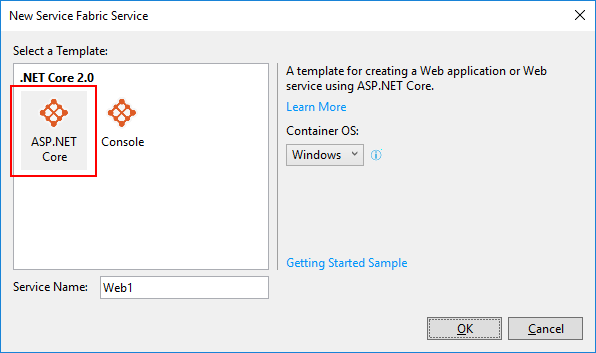
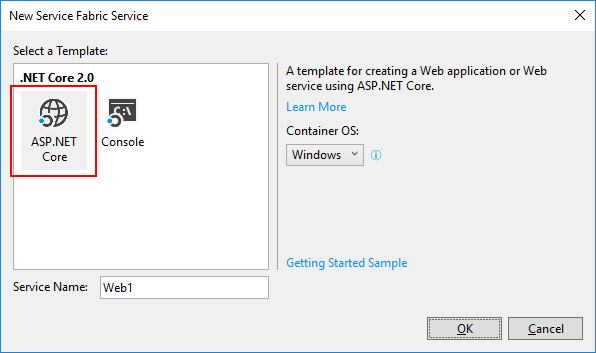
Update preview docs

Changed region(s): [[0.0604, 0.2805, 0.1208, 0.3739], [0.1812, 0.2805, 0.2416, 0.3739]]

diff --git a/docs/conceptual-docs/service-fabric-mesh-tutorial-create-dotnetcore.md b/docs/conceptual-docs/service-fabric-mesh-tutorial-create-dotnetcore.md
@@ -1,0 +1,136 @@
+---
+title: Test and deploy a .NET Core app for Azure Service Fabric Mesh
+description: In this tutorial you create an ASP.NET Core website and deploy it to the local Service Fabric test cluster. After that, you will deploy to Azure.
+services: service-fabric-mesh
+documentationcenter: .net
+author: TylerMSFT
+manager: timlt
+editor: ''
+
+ms.assetid: 
+ms.service: service-fabric-mesh
+ms.devlang: dotNet
+ms.topic: tutorial
+ms.tgt_pltfrm: NA
+ms.workload: NA
+ms.date: 05/15/2018
+ms.author: twhitney
+ms.custom: mvc, devcenter
+#Customer intent: As a developer, I want to use visual studio to locally run a .net core application on Service Fabric Mesh so that I can see it run and then I will deploy it to Azure.
+---
+
+# Tutorial: Create an ASP.NET Core website for Service Fabric Mesh
+
+In this tutorial you will create a new Service Fabric Mesh project, add an ASP.NET Core website to it, and run it locally in the Service Fabric cluster. After that, you will deploy the project to Azure.
+
+In this tutorial you learn how to:
+> [!div class="checklist"]
+> * Create a new Service Fabric Mesh project.
+> * Debug the service locally.
+> * Publish the service to Azure.
+
+If you don’t have an Azure subscription, [create a free account](https://azure.microsoft.com/free/?WT.mc_id=A261C142F) before you begin.
+
+[!INCLUDE [preview note](./includes/include-preview-note.md)]
+
+## Prerequisites
+
+Before you get started, make sure that you've [set up your development environment](service-fabric-mesh-setup-developer-environment-sdk.md). This process includes installing the Service Fabric runtime, SDK, Docker, and Visual Studio 2017. 
+
+## Create a Service Fabric Mesh project
+
+Open Run Visual Studio and select **File** > **New** > **Project...**
+
+In the **New Project** dialog, type **mesh** into the **Search** box at the top. Select the **Service Fabric Mesh Application** template.
+
+In the **Name** box, type **ServiceFabricMesh1** and in the **Location** box, set the folder path of where the files for the project will be stored.
+
+Make sure that **Create directory for solution** is checked, and press **OK** to create the Service Fabric Mesh project.
+
+![Visual studio new Service Fabric Mesh project dialog](media/service-fabric-mesh-tutorial-deploy-dotnetcore/visual-studio-new-project.png)
+
+### Create a service
+
+After you create a Service Fabric Application project, a new dialog is displayed, **New Service Fabric Service**. Select the **ASP.NET Core** project type, make sure **Container OS** is set to **Windows**.
+
+You must set the **Service Name** to something unique. Why? Because the name of the service is used as the repository name of the Docker image. If you have an existing Docker image with the same repository name, it will be overwritten by Visual Studio. Open a terminal and use the Docker command `docker images` to verify your project name is unique.
+
+Press **OK** to create the ASP.NET Core project. 
+
+
+![Visual studio new Service Fabric Mesh project dialog](media/service-fabric-mesh-tutorial-deploy-dotnetcore/visual-studio-new-service-fabric-service.png)
+
+A new dialog is displayed, **New ASP.NET Core Web Application** dialog. Select **Web Application** and then press **OK**.
+
+![Visual studio new ASP.NET core application](media/service-fabric-mesh-tutorial-deploy-dotnetcore/visual-studio-new-aspnetcore-app.png)
+
+Visual Studio will create both the Service Fabric Application project and the ASP.NET Core project. The combination of these two projects represent your service. 
+
+## Build and deploy
+
+A Docker image will automatically be built and deployed to your local cluster as soon as your project loads. This process may take some time and you can monitor the progress of the Service Fabric tools in the **Output** pane if you want. Select the **Service Fabric Tools** item in the pane. You are not prevented from running your project.
+
+After the project has been created, press **F5** to compile and run your service locally. This may take some time if your project has never been run before. Whenever the project is run and debugged locally, Visual Studio will: 
+
+1. Make sure that Docker for Windows is running and set to use Windows as the container operating system.
+2. Downloads any missing Docker base images. This part may take some time
+3. Builds (or rebuilds) the Docker image used to host your code project.
+4. Deploys and runs the container on the local Service Fabric development cluster.
+6. Runs your services and hits any breakpoints you have set.
+
+After the local deployment is finished, and Visual Studio is running your projects, a browser window will open and automatically navigate to the sample webpage.
+
+When you are done browsing the deployed service you can stop debugging your project by pressing **Shift+F5** in Visual Studio.
+
+## Publish to Azure
+
+To publish your Service Fabric Mesh project to Azure, right-click on the **Service Fabric Mesh project** in Visual studio and select **Publish...**
+
+![Visual studio right-click Service Fabric Mesh project](media/service-fabric-mesh-tutorial-deploy-dotnetcore/visual-studio-right-click-publish.png)
+
+You will see a **Publish Service Fabric Application** dialog.
+
+![Visual studio Service Fabric Mesh publish dialog](media/service-fabric-mesh-tutorial-deploy-dotnetcore/visual-studio-publish-dialog.png)
+
+Select your Azure account and subscription. Choose a **Location**. This article uses **East US**.
+
+Under **Resource group**, select **\<Create New Resource Group...>**. This will show you a dialog where you will create a new resource group. Choose the **East US** location and name the group **sfmeshTutorial1RG**. Press **Create** to create the resource group and return to the publish dialog.
+
+![Visual studio Service Fabric Mesh new resource group dialog](media/service-fabric-mesh-tutorial-deploy-dotnetcore/visual-studio-publish-new-resource-group-dialog.png)
+
+Back in the **Publish Service Fabric Application** dialog, under **Azure Container Registry**, select **\<Create New Container Registry...>**. In the **Create Container Registry** dialog, use a unique name for the **Container registry name**. For **Location**, pick **East US**. Select the **sfmeshTutorial1RG** resource group. Set the **SKU** to **Basic** and then press **Create** to return to the publish dialog.
+
+![Visual studio Service Fabric Mesh new resource group dialog](media/service-fabric-mesh-tutorial-deploy-dotnetcore/visual-studio-publish-new-container-registry-dialog.png)
+
+In the publish dialog, press the **Publish** button to deploy your Service Fabric application to Azure.
+
+When you publish to Azure for the first time, it can take up to 10 or more minutes. Subsequent publishes of the same project generally take around five minutes. Obviously, these estimates will vary based on your internet connection speed and other factors. You can monitor the progress of the deployment by selecting the **Service Fabric Tools** item in the Visual Studio **Output** pane. Once the deployment has finished, the **Service Fabric Tools** output will display the IP address and port of your application in the form of a URL.
+
+```json
+Packaging Application...
+Building Images...
+Web1 -> C:\Code\ServiceFabricMesh1\Web1\bin\Any CPU\Release\netcoreapp2.0\Web1.dll
+Uploading the images to Azure Container Registy...
+Deploying application to remote endpoint...
+The application was deployed successfully and it can be accessed at http://10.000.38.000:20000.
+```
+
+Open a web browser and navigate to the URL to see the website running in Azure.
+
+## Clean up resources
+
+When no longer needed, delete all of the resources you created. Since you created a new resource group to host both the ACR and Service Fabric Mesh service resources, you can safely delete this resource group.
+
+```azurecli
+az group delete --resource-group sfmeshTutorial1RG
+```
+
+```powershell
+Remove-AzureRmResourceGroup -Name sfmeshTutorial1RG
+```
+
+Alternatively, you can delete the resource group [from the portal](../azure-resource-manager/resource-group-portal.md#delete-resource-group-or-resources).
+
+## Next steps
+
+Explore the [samples](https://github.com/Azure/seabreeze-preview-pr/tree/master/samples) for Service Fabric Mesh.

diff --git a/docs/conceptual-docs/service-fabric-mesh-setup-developer-environment-sdk.md b/docs/conceptual-docs/service-fabric-mesh-setup-developer-environment-sdk.md
@@ -3,9 +3,9 @@ title: Setup new Windows environment for Service Fabric Mesh on Azure
 description: Details all of the prerequisites required to create a Service Fabric Application to deploy to Azure Service Fabric Mesh.
 services: Azure Service Fabric Mesh
 keywords: 
-author: thraka
-ms.author: adegeo
-ms.date: 05/04/2018
+author: TylerMSFT
+ms.author: twhitney
+ms.date: 05/24/2018
 ms.topic: get-started-article
 ms.service: service-fabric-mesh
 manager: timlt
@@ -14,11 +14,9 @@ manager: timlt
 
 # Setup your Windows environment for Service Fabric Mesh
 
-To build and run Azure Service Fabric applications on your Windows development machine, install the Service Fabric runtime, SDK, and tools. You also need to enable execution of the Windows PowerShell scripts included in the SDK.
+To build and run Azure Service Fabric applications on your Windows development machine, install the Service Fabric runtime, SDK, and tools. You also need to enable use of the Windows PowerShell scripts.
 
-|     |
-| --- |
-| Service Fabric Mesh is in currently in preview, and only supports the **East US** region. Previews are made available to you on the condition that you agree to the [supplemental terms of use](https://azure.microsoft.com/support/legal/preview-supplemental-terms/). Some aspects of this feature may change prior to general availability (GA). |
+[!INCLUDE [preview note](./includes/include-preview-note.md)]
 
 ## Supported operating system versions
 The following operating system versions are supported for development:
@@ -34,9 +32,36 @@ Service Fabric uses Windows PowerShell scripts for creating a local development 
 Set-ExecutionPolicy -ExecutionPolicy RemoteSigned -Force -Scope CurrentUser
 ```
 
+## Enable Hyper-V
+
+Hyper-V must be enabled for you to create Service Fabric applications. 
+
+#### Windows 10
+
+Open PowerShell as an administrator and run the following command:
+
+```powershell
+Enable-WindowsOptionalFeature -Online -FeatureName Microsoft-Hyper-V -All
+```
+
+Restart your computer. For more information about how to enable Hyper-V, see [Install Hyper-V on Windows 10](https://docs.microsoft.com/virtualization/hyper-v-on-windows/quick-start/enable-hyper-v).
+
+#### Windows Server 2016
+
+Open PowerShell as an administrator and run the following command:
+
+```powershell
+Install-WindowsFeature -Name Hyper-V -IncludeManagementTools
+```
+
+Restart your computer. For more information about how to enable Hyper-V, see [Install the Hyper-V role on Windows Server 2016](https://docs.microsoft.com/windows-server/virtualization/hyper-v/get-started/install-the-hyper-v-role-on-windows-server).
+
+
+
+
 ## Visual Studio
 
-Deploying Service Fabric Applications to Service Fabric Mesh requires Visual Studio 2017. Install version 15.6.0 or greater and enable the following workloads:
+Deploying Service Fabric Applications to Service Fabric Mesh requires Visual Studio 2017. [Install version 15.6.0][download-visual-studio] or greater and enable the following workloads:
 
 - ASP.NET and Web Development
 - Azure Development
@@ -45,39 +70,57 @@ Deploying Service Fabric Applications to Service Fabric Mesh requires Visual Stu
 
 You'll need to install Docker to support the containerized Service Fabric applications used by Service Fabric Mesh.
 
-If you're installing Docker on **Windows Server 2016**, use the following PowerShell commands to install Docker. For more information, see [Docker Enterprise Edition for Windows Server][download-docker-server].
+#### Windows 10
+
+Download and install the latest version of [Docker Community Edition for Windows][download-docker]. 
+
+During the installation, select **Use Windows containers instead of Linux containers** when asked. You'll be required to log off and log back in. After logging back in, if you did not previously enable Hyper-V, you may be prompted to enable Hyper-V. You must enable Hyper-V and then restart your computer.
+
+After your computer has restarted, Docker will prompt you to enable the **Containers** feature, enable it and restart your computer.
+
+#### Windows Server 2016
+
+Use the following PowerShell commands to install Docker. For more information, see [Docker Enterprise Edition for Windows Server][download-docker-server].
 
 ```powershell
 Install-Module DockerMsftProvider -Force
 Install-Package Docker -ProviderName DockerMsftProvider -Force
-
-# This next command will restart the server if needed
-Install-WindowsFeature Containers -Restart
+Install-WindowsFeature Containers
 ```
 
-If you're installing Docker for **Windows 10**, install the latest version of [Docker Community Edition for Windows][download-docker]. During the installation, select **Use Windows containers instead of Linux containers** when asked. You'll be required to log off and log back in. After logging back in, you may be prompted to enable Hyper-V, enable it. When you enable Hyper-V, you'll have to restart your computer.
+Restart your computer.
 
 ## SDK and tools
 
-Install the SDK and Visual Studio tools to create new Service Fabric Applications. Currently, you must remove any existing Service Fabric runtime and SDK from your system. Service Fabric Mesh components can't be installed alongside the current Service Fabric components.
+Install the Service Fabric runtime, SDK, and tools.
 
-1. If necessary, remove any existing Service Fabric SDK and runtime.
-2. Install the [Service Fabric Mesh Runtime][download-runtime] with the **/AcceptEULA** flag on the command line.
-5. Install the [Service Fabric Mesh SDK][download-sdk].
-3. Install the [Visual Studio Service Fabric Mesh tools][download-tools].
-4. Open a **new** elevated PowerShell window and run  
-`"C:\Program Files\Microsoft SDKs\Service Fabric\ClusterSetup\DevClusterSetup.ps1" -CreateOneNodeCluster -UseMachineName`
-5. (Optional) Start the local Cluster Manager tool:  
-`"C:\Program Files\Microsoft SDKs\Service Fabric\Tools\ServiceFabricLocalClusterManager\ServiceFabricLocalClusterManager.exe"`
-6. Reboot your computer.
+1. Install the [Service Fabric Runtime][download-runtime] with the **/AcceptEULA** flag on the command line.
+2. Install the [Service Fabric SDK][download-sdk].
+3. Install the [Service Fabric Mesh SDK][download-sdkmesh].
+4. Install the [Visual Studio Service Fabric Tools (preview)][download-tools].
+
+## Build a cluster
+
+To create and run Service Fabric applications, you must have a single-node local development cluster. This cluster must be running whenever you use Visual Studio with a Service Fabric Mesh project. 
+
+Docker **must** be running before you can build a cluster. Test that Docker is running by opening a terminal window and running `docker ps` to see if an error occurs. If the response does not indicate an error, Docker is running and you're ready to build a cluster.
+
+After you install the SDK and Visual Studio tools, create a development cluster. Open a **new**, **elevated**, PowerShell window and run the following PowerShell commands:
+
+```powershell
+. "C:\Program Files\Microsoft SDKs\Service Fabric\ClusterSetup\DevClusterSetup.ps1" -CreateOneNodeCluster -UseMachineName
+```
+
+You're now ready to create Service Fabric Mesh services!
 
 ## Next steps
 
-Read through the [Deploy a .NET Core app to Service Fabric Mesh](service-fabric-mesh-tutorial-deploy-dotnetcore.md) tutorial.
+Read through the [Create a .NET Core app to Service Fabric Mesh](service-fabric-mesh-tutorial-create-dotnetcore.md) tutorial.
 
 [download-docker]: https://store.docker.com/editions/community/docker-ce-desktop-windows
 [download-docker-server]: https://docs.docker.com/install/windows/docker-ee/
-[download-runtime]: http://aka.ms/meshdlruntime
-[download-sdk]: http://aka.ms/meshdlsdk
-[download-tools]: https://aka.ms/sfapptools
-[powershell5-download]: https://www.microsoft.com/download/details.aspx?id=50395
+[download-runtime]: http://aka.ms/sfruntime
+[download-sdk]: http://aka.ms/sfsdk
+[download-sdkmesh]: http://aka.ms/sfmeshsdk
+[download-tools]: https://aka.ms/sfvstools
+[download-visual-studio]: https://www.visualstudio.com/downloads/

diff --git a/docs/conceptual-docs/service-fabric-mesh-overview.md b/docs/conceptual-docs/service-fabric-mesh-overview.md
@@ -3,8 +3,8 @@ title: Overview of Azure Service Fabric Mesh
 description: An overview of Azure Service Fabric Mesh. With Service Fabric Mesh, you can deploy and scale your application without worrying about the infrastructure needs of your application.
 services: Azure Service Fabric Mesh
 keywords: 
-author: thraka
-ms.author: adegeo
+author: TylerMSFT
+ms.author: twhitney
 ms.date: 04/30/2018
 ms.topic: overview
 ms.service: service-fabric-mesh
@@ -16,13 +16,9 @@ manager: timlt
 
 Service Fabric Mesh is a server-less platform that runs on top of [Service Fabric][service-fabric-overview] and is hosted on Microsoft Azure. With Service Fabric Mesh, you can run and scale your microservices without worrying about the infrastructure powering it. Contrast this to pure [Service Fabric][service-fabric-overview] where you not only manage your services, but you also manage the cluster running your services. Service Fabric Mesh automatically allocates the infrastructure needed by your microservices, and also handles infrastructure failures, making sure your services are highly-available.
 
-![Diagram of Service Fabric Mesh for Azure](./media/service-fabric-mesh-overview/diagram.png)
-
 You worry about your code, Azure takes care of the hardware.
 
-|     |
-| --- |
-| Service Fabric Mesh is in currently in preview, and only supports the **East US** region. Previews are made available to you on the condition that you agree to the [supplemental terms of use](https://azure.microsoft.com/support/legal/preview-supplemental-terms/). Some aspects of this feature may change prior to general availability (GA). |
+[!INCLUDE [preview note](./includes/include-preview-note.md)]
 
 ## Microservices
 
@@ -46,7 +42,7 @@ You can also take advantage of the Service Fabric runtime that Service Fabric Me
 
 It only takes a few steps to deploy a sample project with the Azure CLI. For more information, see [Deploy a container](service-fabric-mesh-quickstart-deploy-container.md). 
 
-If you're using Visual Studio, try the [Create an ASP.NET Core website](service-fabric-mesh-tutorial-deploy-dotnetcore.md) tutorial.
+If you're using Visual Studio, try the [Create an ASP.NET Core website](service-fabric-mesh-tutorial-create-dotnetcore.md) tutorial.
 
 
 

diff --git a/docs/conceptual-docs/service-fabric-mesh-quickstart-deploy-container.md b/docs/conceptual-docs/service-fabric-mesh-quickstart-deploy-container.md
@@ -20,9 +20,7 @@ Service Fabric Mesh makes it easy to create and manage Docker containers in Azur
 
 To read more about applications and Service Fabric Mesh, head over to the [Service Fabric Mesh Overview](./service-fabric-mesh-overview.md)
 
-|     |
-| --- |
-| Service Fabric Mesh is in currently in preview, and only supports the **East US** region. Previews are made available to you on the condition that you agree to the [supplemental terms of use](https://azure.microsoft.com/support/legal/preview-supplemental-terms/). Some aspects of this feature may change prior to general availability (GA). |
+[!INCLUDE [preview note](./includes/include-preview-note.md)]
 
 If you don't already have an Azure account, [create a free account](https://azure.microsoft.com/free/) before you begin.
 

diff --git a/docs/conceptual-docs/service-fabric-mesh-quickstart-dotnet-core.md b/docs/conceptual-docs/service-fabric-mesh-quickstart-dotnet-core.md
@@ -26,9 +26,7 @@ This quickstart shows how to deploy your first .NET Core application to Service 
 
 You can easily create a free Azure subscription, [create a free account](https://azure.microsoft.com/free/) before you begin. 
 
-|     |
-| --- |
-| Service Fabric Mesh is in currently in preview, and only supports the **East US** region. Previews are made available to you on the condition that you agree to the [supplemental terms of use](https://azure.microsoft.com/support/legal/preview-supplemental-terms/). Some aspects of this feature may change prior to general availability (GA). |
+[!INCLUDE [preview note](./includes/include-preview-note.md)]
 
 [!INCLUDE [cloud-shell-try-it.md](../../includes/cloud-shell-try-it.md)] 
 
